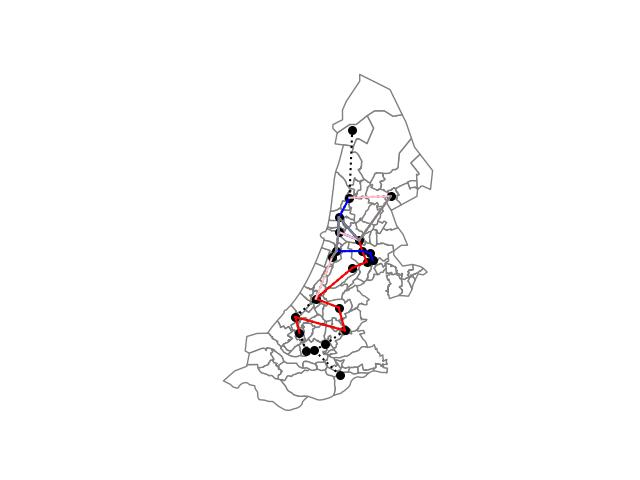
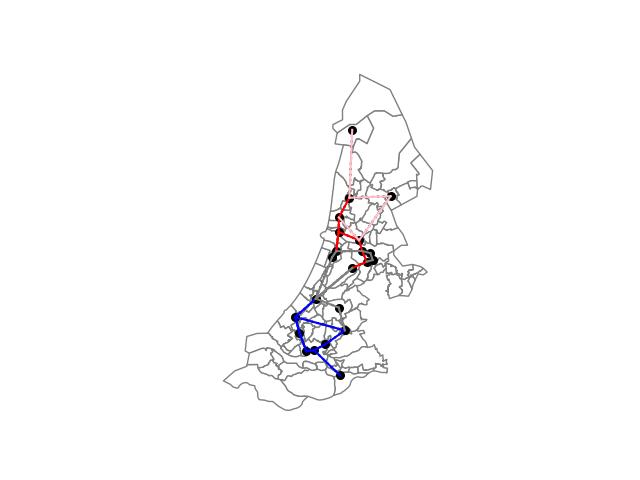
Made HillClimber more user friendly and compatible with visualisation scripts

Changed region(s): [[0.4375, 0.2812, 0.5938, 0.7812], [0.5938, 0.4062, 0.625, 0.4375]]

diff --git a/spoorschavuiten/main_visualisation.py b/spoorschavuiten/main_visualisation.py
@@ -40,7 +40,7 @@ greedy_schedule = FixedGreedy(schedule, 120, 7, 5)
 greedy_schedule.run()
 
 hillClimber = HillClimber(schedule, holland, 120, 7)
-hillClimber.run(100000, 4)
+hillClimber.run(10000, 4)
 test = str(hillClimber.generate_output())
 print(test)
 # for i, route in enumerate(schedule._routes, 1):

diff --git a/spoorschavuiten/main_script.py b/spoorschavuiten/main_script.py
@@ -32,7 +32,7 @@ if __name__ == "__main__":
     greedy_schedule.run()
 
     hillClimber = hc(new_schedule, holland, max_time, max_trains)
-    hillClimber.run(1000000, 4)
+    hillClimber.run(10000, 4)
     hillClimber.generate_output()
 
     ### Hier eindigt code om hillclimber te testen ###

diff --git a/spoorschavuiten/code/algorithms/hillclimber.py b/spoorschavuiten/code/algorithms/hillclimber.py
@@ -89,3 +89,6 @@ class HillClimber:
 
             # Doe check_solution()
             self.check_solution()
+
+        # Set newSchedule to be the last improving solution
+        self._newSchedule = self._oldSchedule
